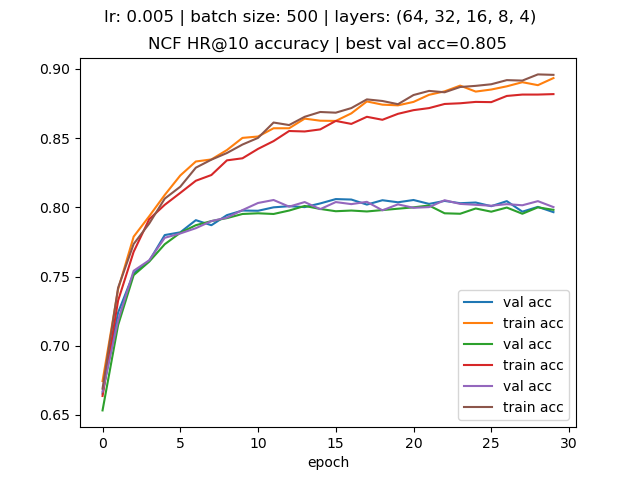
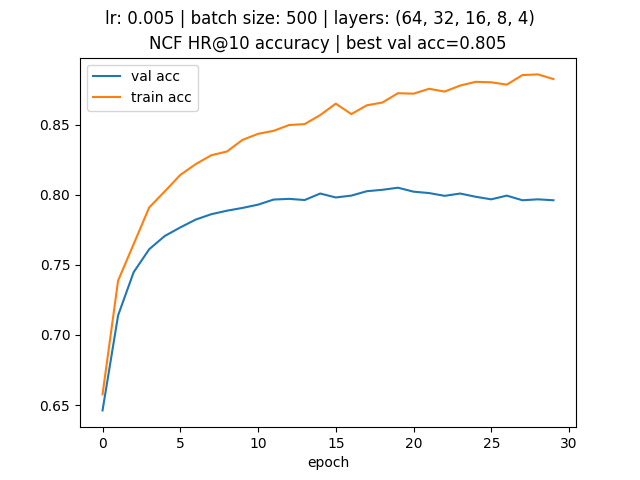
batch 500 results

diff --git a/trainer.py b/trainer.py
@@ -470,7 +470,7 @@ def Train(lr=1e-3, dropout=0.0, batch_size=256, epochs=1, top_k=10, embedding_si
     hr_train_list, hr_val_list = [],[]
     ndgc_train_list, ndgc_val_list = [],[]
     losses = []
-    for epoch in range(epochs):
+    for epoch in range(1,epochs+1):
         model.train() # Enable dropout (if have).
         start_time = time.time()
         train_loader.dataset.neg_sample() # add unrecomended movies to dataset
@@ -530,21 +530,21 @@ def Train(lr=1e-3, dropout=0.0, batch_size=256, epochs=1, top_k=10, embedding_si
     plt.figure()
     plt.plot(hr_val_list, label='val acc')
     plt.plot(hr_train_list, label='train acc')
-    plt.title(f"{model.name} HR@10 accuracy | best val acc={round(best_hr,3)}")
+    plt.title(f"{model.name} HR@10 accuracy | best val acc={round(best_hr,4)}")
     plt.suptitle(f"lr: {lr} | batch size: {batch_size} | layers: {hidden_layers}")
     plt.xlabel("epoch")
     plt.legend()
-    file_name = os.path.join(main_path,f"results/{model.name}__hr10_acc_{round(best_hr,3)}__lr_{lr}__batch_{batch_size}__layers_{hidden_layers}.png") 
+    file_name = os.path.join(main_path,f"results/{model.name}__hr10_acc_{round(best_hr,4)}__lr_{lr}__batch_{batch_size}__layers_{hidden_layers}.png")
     plt.savefig(file_name)
 
     plt.figure()
     plt.plot(ndgc_val_list, label='val acc')
     plt.plot(ndgc_train_list, label='train acc')
-    plt.title(f"{model.name} NDGC accuracy | best val acc={round(best_ndcg,3)}")
+    plt.title(f"{model.name} NDGC accuracy | best val acc={round(best_ndcg,4)}")
     plt.suptitle(f"lr: {lr} | batch size: {batch_size} | layers: {hidden_layers}")
     plt.xlabel("epoch")
     plt.legend()
-    file_name = os.path.join(main_path,f"results/{model.name}__ndgc_acc_{round(best_ndcg,3)}__lr_{lr}__batch_{batch_size}__layers_{hidden_layers}.png") 
+    file_name = os.path.join(main_path,f"results/{model.name}__ndgc_acc_{round(best_ndcg,4)}__lr_{lr}__batch_{batch_size}__layers_{hidden_layers}.png")
     plt.savefig(file_name)
 
     if show_graph:

diff --git a/gui.py b/gui.py
@@ -1,7 +1,7 @@
 from tkinter import *
 import os
 import pandas as pd
-from movie_recomendation import trainer
+# from movie_recomendation import trainer
 
 
 main_path = os.getcwd()

diff --git a/runner.py b/runner.py
@@ -2,7 +2,7 @@ import trainer
 
 
 lr = [5e-3,1e-3,5e-4]
-batch_size = [300]#,300,500]
+batch_size = [500]
 epochs = 30
 topk = 10
 embedding_size = [32]
